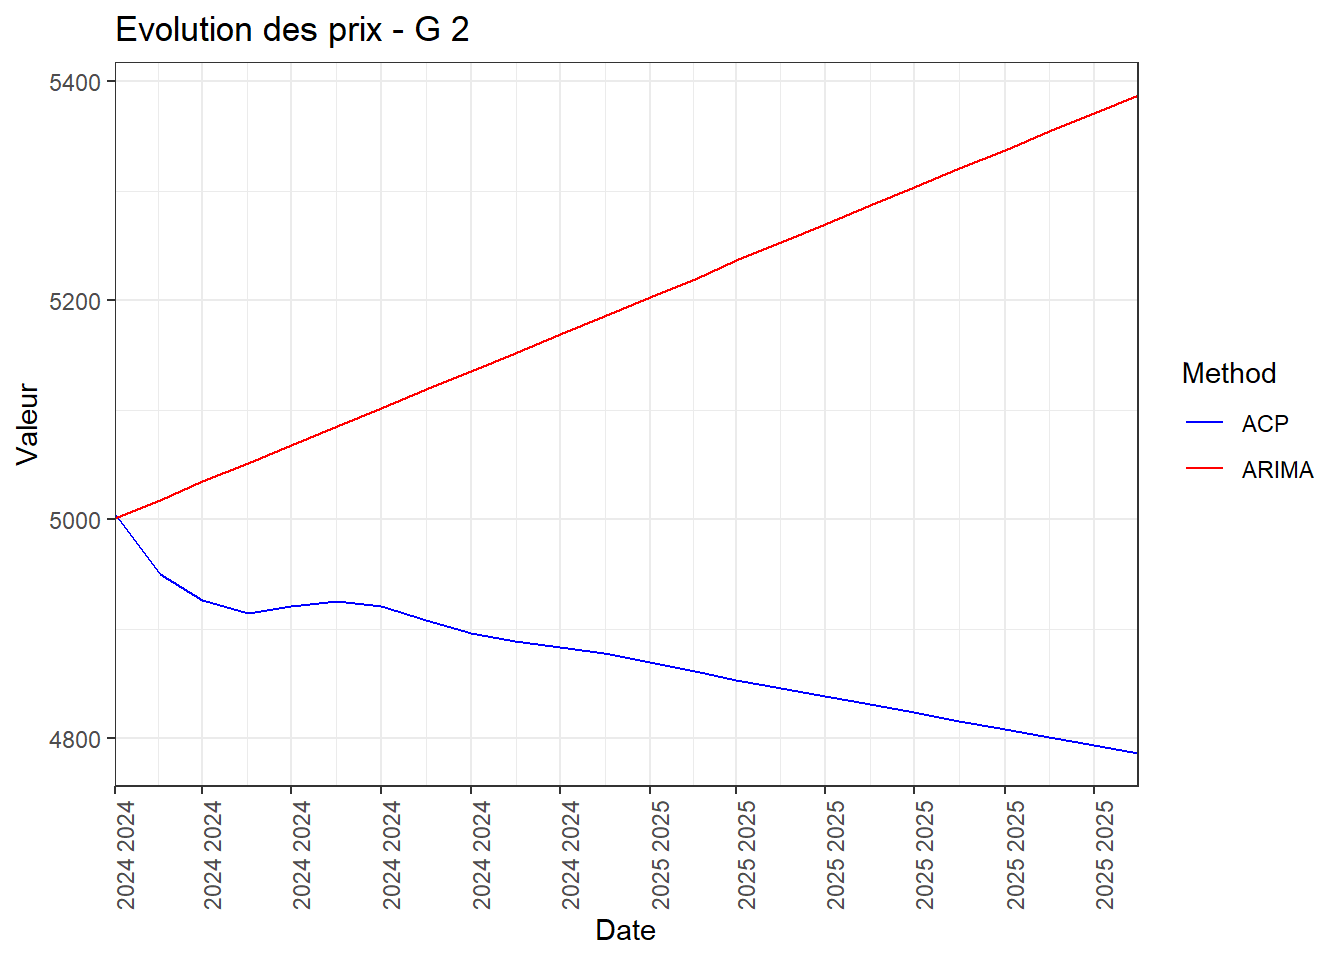
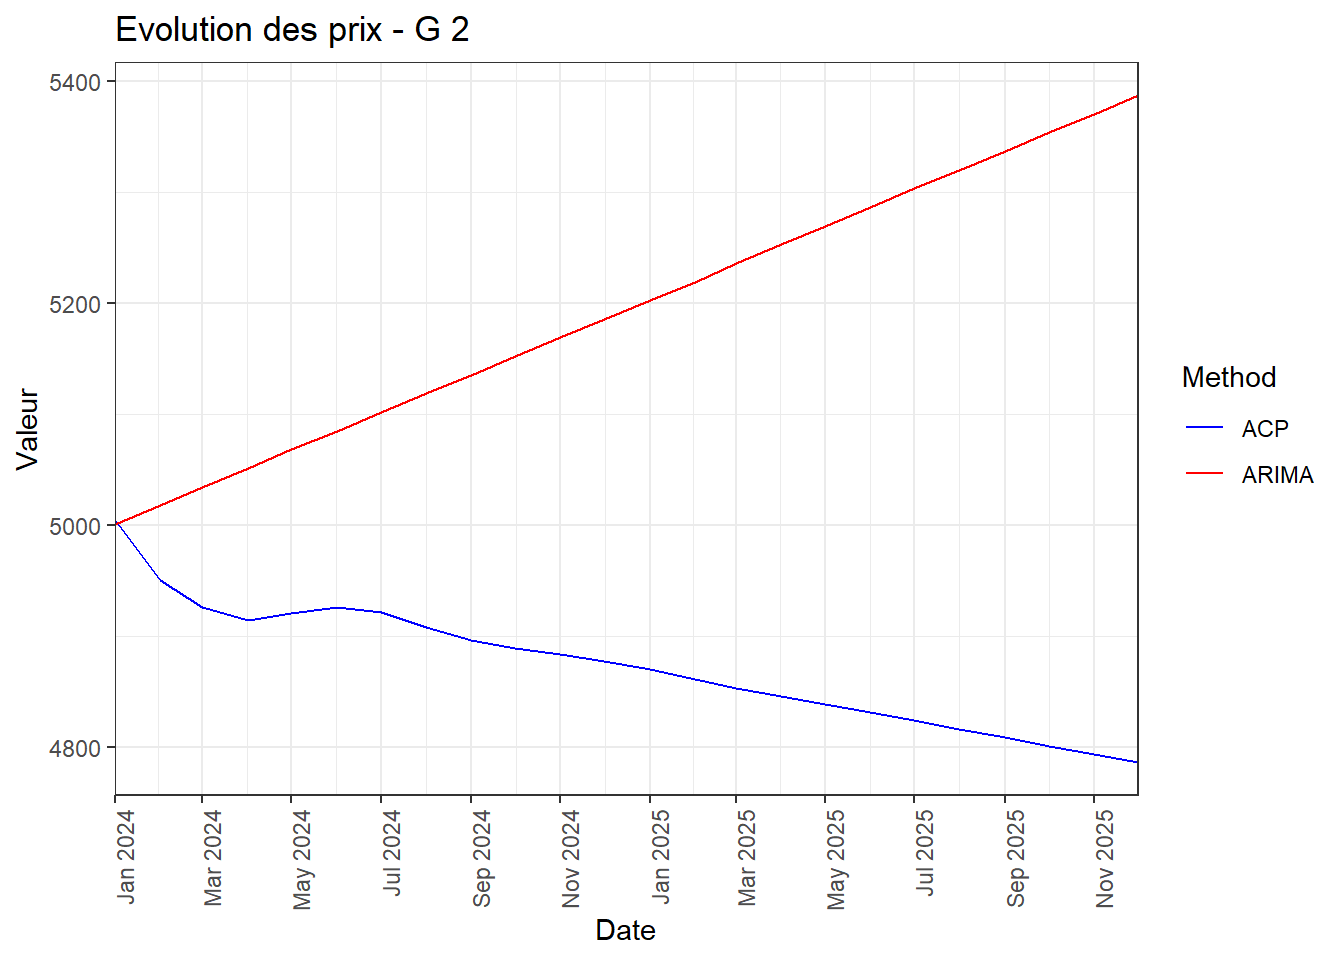
g88

diff --git a/arimavsacp.html b/arimavsacp.html
@@ -7,6 +7,7 @@
 <meta name="viewport" content="width=device-width, initial-scale=1.0, user-scalable=yes">
 
 <meta name="author" content="Mr.&nbsp;Dtiebo">
+<meta name="dcterms.date" content="2024-12-19">
 
 <title>MRDTIEBO - ACP vs Arima</title>
 <style>
@@ -194,7 +195,7 @@ pre > code.sourceCode > span > a:first-child::before { text-decoration: underlin
     <div>
     <div class="quarto-title-meta-heading">Published</div>
     <div class="quarto-title-meta-contents">
-      <p class="date">Invalid Date</p>
+      <p class="date">December 19, 2024</p>
     </div>
   </div>
   
@@ -808,7 +809,7 @@ pre > code.sourceCode > span > a:first-child::before { text-decoration: underlin
 <span id="cb9-12"><a href="#cb9-12" aria-hidden="true" tabindex="-1"></a>         <span class="at">x =</span> <span class="st">"Date"</span>, <span class="at">y =</span> <span class="st">"Valeur"</span>, <span class="at">color =</span> <span class="st">"Method"</span>) <span class="sc">+</span></span>
 <span id="cb9-13"><a href="#cb9-13" aria-hidden="true" tabindex="-1"></a>    <span class="fu">theme_bw</span>() <span class="sc">+</span></span>
 <span id="cb9-14"><a href="#cb9-14" aria-hidden="true" tabindex="-1"></a>    <span class="fu">theme</span>(<span class="at">axis.text.x =</span> <span class="fu">element_text</span>(<span class="at">angle =</span> <span class="dv">90</span>, <span class="at">hjust =</span> <span class="dv">1</span>)) <span class="sc">+</span></span>
-<span id="cb9-15"><a href="#cb9-15" aria-hidden="true" tabindex="-1"></a>    <span class="fu">scale_x_date</span>(<span class="at">date_labels =</span> <span class="st">"%G %Y"</span>, <span class="at">date_breaks =</span> <span class="st">"2 months"</span>, <span class="at">expand =</span> <span class="fu">c</span>(<span class="dv">0</span>, <span class="dv">0</span>)) <span class="sc">+</span></span>
+<span id="cb9-15"><a href="#cb9-15" aria-hidden="true" tabindex="-1"></a>    <span class="fu">scale_x_date</span>(<span class="at">date_labels =</span> <span class="st">"%b %Y"</span>, <span class="at">date_breaks =</span> <span class="st">"2 months"</span>, <span class="at">expand =</span> <span class="fu">c</span>(<span class="dv">0</span>, <span class="dv">0</span>)) <span class="sc">+</span></span>
 <span id="cb9-16"><a href="#cb9-16" aria-hidden="true" tabindex="-1"></a>    <span class="fu">scale_color_manual</span>(<span class="at">values =</span> <span class="fu">c</span>(<span class="st">"blue"</span>, <span class="st">"red"</span>))</span>
 <span id="cb9-17"><a href="#cb9-17" aria-hidden="true" tabindex="-1"></a>    <span class="fu">print</span>(p)</span>
 <span id="cb9-18"><a href="#cb9-18" aria-hidden="true" tabindex="-1"></a>}</span></code><button title="Copy to Clipboard" class="code-copy-button"><i class="bi"></i></button></pre></div>
@@ -2566,7 +2567,7 @@ window.document.addEventListener("DOMContentLoaded", function (event) {
 <div class="sourceCode" id="cb19" data-shortcodes="false"><pre class="sourceCode markdown code-with-copy"><code class="sourceCode markdown"><span id="cb19-1"><a href="#cb19-1" aria-hidden="true" tabindex="-1"></a><span class="co">---</span></span>
 <span id="cb19-2"><a href="#cb19-2" aria-hidden="true" tabindex="-1"></a><span class="an">title:</span><span class="co"> "ACP vs Arima "</span></span>
 <span id="cb19-3"><a href="#cb19-3" aria-hidden="true" tabindex="-1"></a><span class="an">author:</span><span class="co"> "Mr. Dtiebo"</span></span>
-<span id="cb19-4"><a href="#cb19-4" aria-hidden="true" tabindex="-1"></a><span class="an">date:</span><span class="co"> "Décembre 19, 2024"</span></span>
+<span id="cb19-4"><a href="#cb19-4" aria-hidden="true" tabindex="-1"></a><span class="an">date:</span><span class="co"> "December 19, 2024"</span></span>
 <span id="cb19-5"><a href="#cb19-5" aria-hidden="true" tabindex="-1"></a><span class="an">output:</span></span>
 <span id="cb19-6"><a href="#cb19-6" aria-hidden="true" tabindex="-1"></a><span class="co">  prettydoc::html_pretty:</span></span>
 <span id="cb19-7"><a href="#cb19-7" aria-hidden="true" tabindex="-1"></a><span class="co">    theme: architect</span></span>
@@ -2644,7 +2645,7 @@ window.document.addEventListener("DOMContentLoaded", function (event) {
 <span id="cb19-93"><a href="#cb19-93" aria-hidden="true" tabindex="-1"></a>         <span class="at">x =</span> <span class="st">"Date"</span>, <span class="at">y =</span> <span class="st">"Valeur"</span>, <span class="at">color =</span> <span class="st">"Method"</span>) <span class="sc">+</span></span>
 <span id="cb19-94"><a href="#cb19-94" aria-hidden="true" tabindex="-1"></a>    <span class="fu">theme_bw</span>() <span class="sc">+</span></span>
 <span id="cb19-95"><a href="#cb19-95" aria-hidden="true" tabindex="-1"></a>    <span class="fu">theme</span>(<span class="at">axis.text.x =</span> <span class="fu">element_text</span>(<span class="at">angle =</span> <span class="dv">90</span>, <span class="at">hjust =</span> <span class="dv">1</span>)) <span class="sc">+</span></span>
-<span id="cb19-96"><a href="#cb19-96" aria-hidden="true" tabindex="-1"></a>    <span class="fu">scale_x_date</span>(<span class="at">date_labels =</span> <span class="st">"%G %Y"</span>, <span class="at">date_breaks =</span> <span class="st">"2 months"</span>, <span class="at">expand =</span> <span class="fu">c</span>(<span class="dv">0</span>, <span class="dv">0</span>)) <span class="sc">+</span></span>
+<span id="cb19-96"><a href="#cb19-96" aria-hidden="true" tabindex="-1"></a>    <span class="fu">scale_x_date</span>(<span class="at">date_labels =</span> <span class="st">"%b %Y"</span>, <span class="at">date_breaks =</span> <span class="st">"2 months"</span>, <span class="at">expand =</span> <span class="fu">c</span>(<span class="dv">0</span>, <span class="dv">0</span>)) <span class="sc">+</span></span>
 <span id="cb19-97"><a href="#cb19-97" aria-hidden="true" tabindex="-1"></a>    <span class="fu">scale_color_manual</span>(<span class="at">values =</span> <span class="fu">c</span>(<span class="st">"blue"</span>, <span class="st">"red"</span>))</span>
 <span id="cb19-98"><a href="#cb19-98" aria-hidden="true" tabindex="-1"></a>    <span class="fu">print</span>(p)</span>
 <span id="cb19-99"><a href="#cb19-99" aria-hidden="true" tabindex="-1"></a>}</span>
